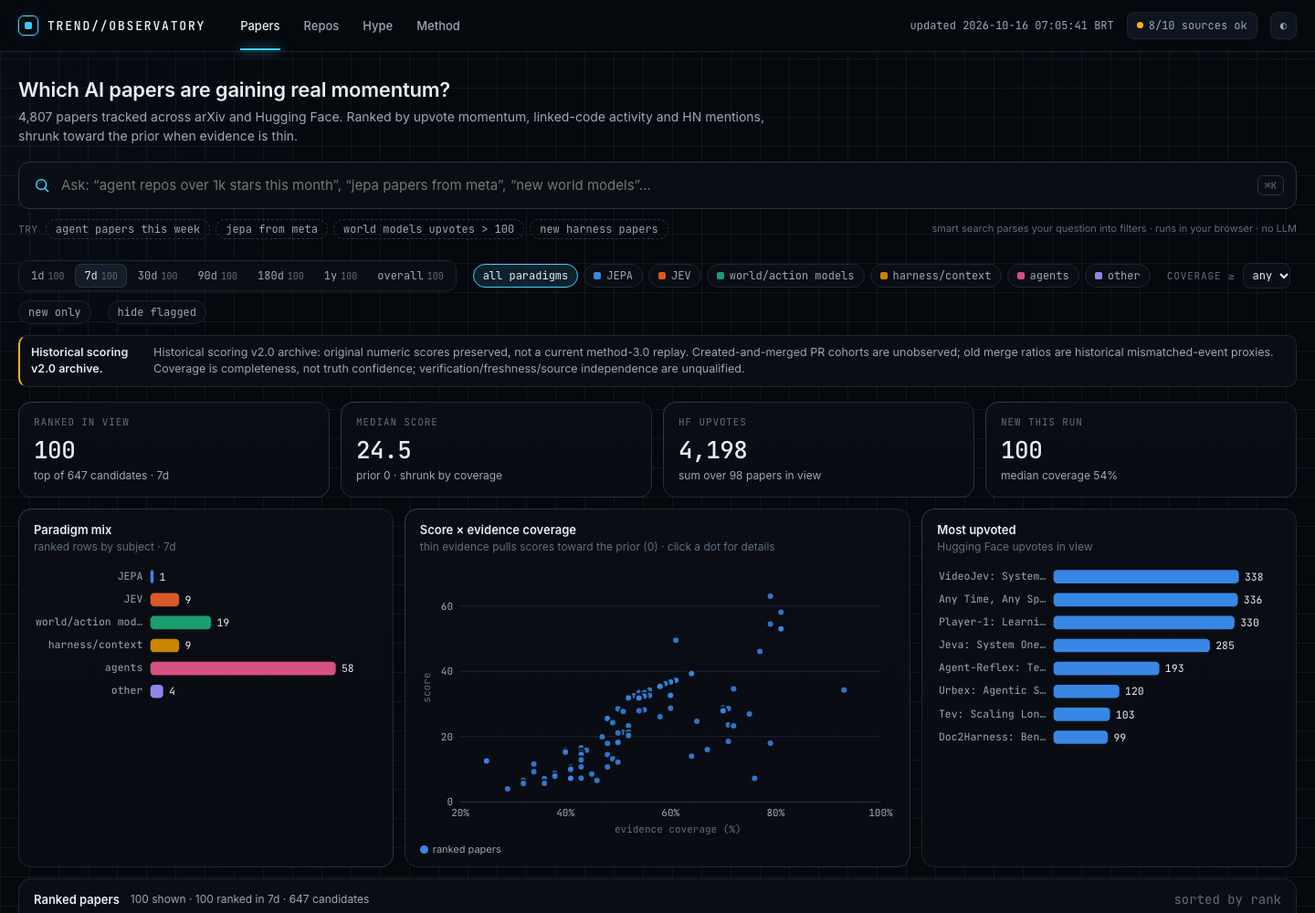
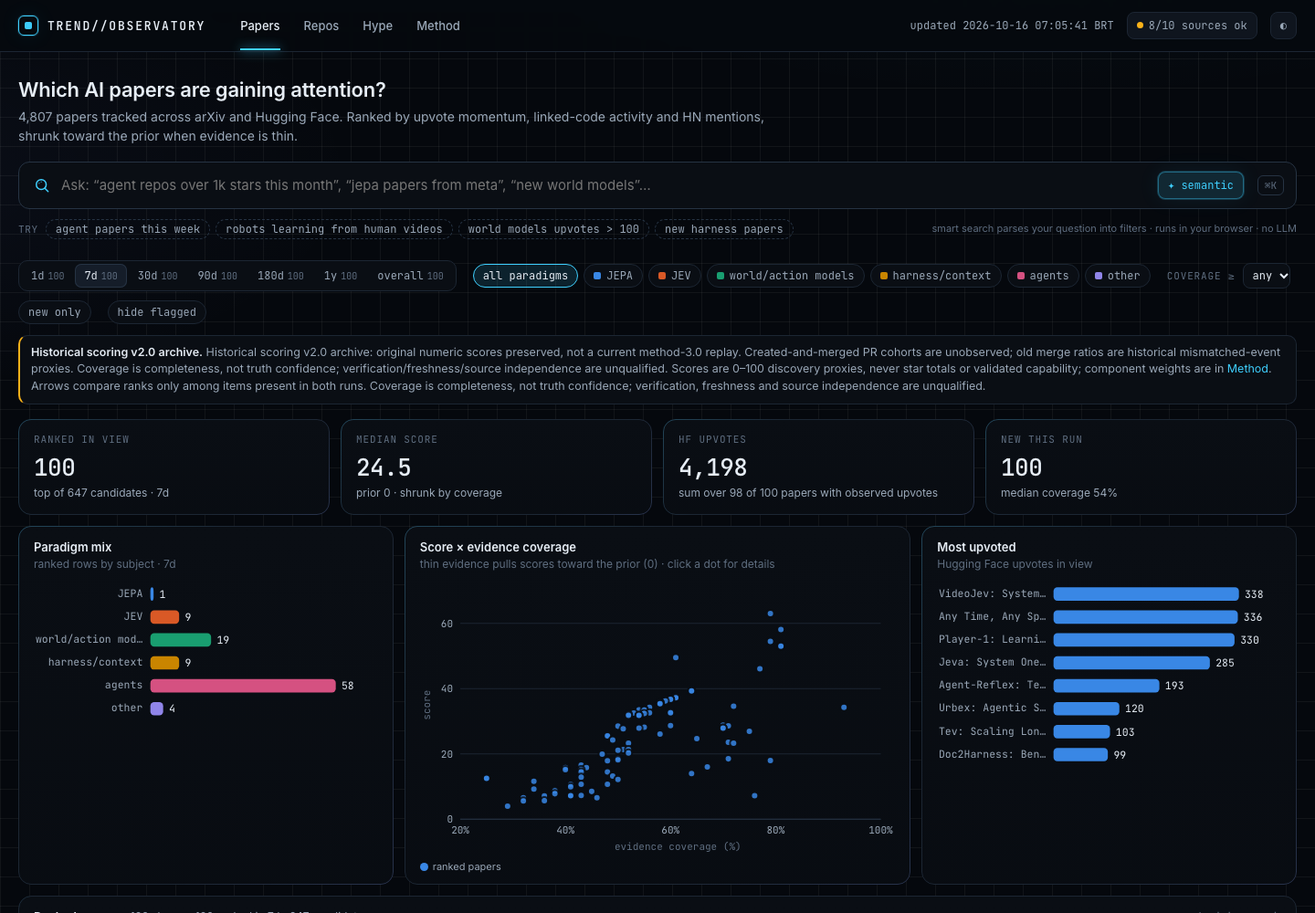
fix: address independent review findings
- drawer reads the effective (paradigm) view the table shows
- query-implied tab/window apply only when the query changes
- parser: numbers before tab words, coverage 50 -> 50%, attention routes to
  Hype, 'up' no longer means rising, sort only on existing columns
- HYPE: attention and discovery coverage columns, both-coverage filter,
  movement and gap notes, full unqualified-dimensions notice
- papers/repos notice restores the 0-100 proxy and arrow disclaimers
- star growth shows source and span per row; KPI no longer sums mixed spans
- upvote KPI shows '—' when nothing observed; malformed hash tolerated
- workflows: deploy hash, rebase before push, save state only on success
- docs: accurate check/carry-over claims, repo growth note

diff --git a/web/index.html b/web/index.html
@@ -211,7 +211,7 @@ footer .wrap{display:flex;gap:24px;flex-wrap:wrap;justify-content:space-between}
   <h1 id="h1"></h1><p id="lede"></p>
   <div class="ask">
    <svg class="ic" viewBox="0 0 24 24" fill="none" stroke="currentColor" stroke-width="1.8" stroke-linecap="round"><circle cx="11" cy="11" r="6.5"/><path d="M20 20l-4.2-4.2"/><path d="M11 7.5v.01M8.2 9.2l.01 0" opacity=".6"/></svg>
-   <input id="q" type="search" autocomplete="off" spellcheck="false" placeholder="Ask: “agent repos over 1k stars this month”, “jepa papers from meta”, “new world models”…" aria-label="Search">
+   <input id="q" type="search" autocomplete="off" spellcheck="false" placeholder="Ask: “agent repos over 1k stars this month”, “browser automation”, “robots learning from video”…" aria-label="Search">
    <button class="sem" id="sem" title="semantic search: ranks by meaning with a small embedding model that runs in your browser (downloads ~23 MB once)">✦ semantic</button>
    <kbd>⌘K</kbd>
   </div>
@@ -267,6 +267,8 @@ const tag=t=>t?`<span class=tag><i style="background:${tagc(t)}"></i>${esc(t)}</
 // ------------------------------------------------------------------ honesty vocabulary (ported unchanged)
 const KIND={'rate-proxy':'rate proxy: per-day-since-release average (no earlier snapshot), counts as half evidence','since-release':'rate since release (younger than the momentum horizon)','measured':'real delta from snapshots / stargazer timestamps','blended':'real snapshot delta blended with the since-release rate (our history is shorter than the window)'};
 const FLAG={'stars>activity':'star growth capped: not matched by issue/PR/commit activity','solo':'stars but ≤1 contributor (no outside contributors)','spike':'one-off spike: star rate not sustained across 7/30/90d','single-post':'HN attention is a single post','few-votes':'fewer than 10 upvotes: small sample, counts as part of a signal','single-platform':'all sampled attention on one platform','few-voices':'only a few unique authors in the sample'};
+const GSRC={'snapshots':'measured between two of our own snapshots','born-in-window':'repository created inside the window: all its stars count as gained since creation','stargazers':'from GitHub stargazer timestamps','stars/age':'rate proxy: total stars divided by age (no earlier observation)'};
+const GABBR={'born-in-window':'new','stargazers':'ts','stars/age':'~'};
 const UNQ='verification: unqualified · freshness: unknown · source independence: unqualified';
 function flags(f){return (f||[]).map(x=>`<span class=fl title="${esc(FLAG[x]||x)}">${esc(x)}</span>`).join('')}
 function mv(r){const m=r.mv;
@@ -287,30 +289,30 @@ function since(iso){if(!iso)return null;return Math.max(0,Math.floor((Date.now()
 const SYN={'jepa':'JEPA','jev':'JEV','world model':'world/action models','world models':'world/action models','world-model':'world/action models','action model':'world/action models','robot':'world/action models','robotics':'world/action models','vla':'world/action models',
  'harness':'harness/context','harnesses':'harness/context','context':'harness/context','memory':'harness/context','mcp':'harness/context','agent':'agents','agents':'agents','agentic':'agents'};
 const WINW={'today':'1d','24h':'1d','day':'1d','this week':'7d','week':'7d','weekly':'7d','this month':'30d','month':'30d','quarter':'90d','this year':'1y','year':'1y','all time':'overall','ever':'overall'};
-const FIELDS={star:'stars',stars:'stars',score:'score',coverage:'coverage',cov:'coverage',upvote:'upvotes',upvotes:'upvotes',votes:'upvotes',hf:'upvotes',gained:'gained',gain:'gained',contributors:'contributors',commits:'commits',mentions:'mentions',days:'days',age:'days',attention:'score',discovery:'discovery',gap:'gap'};
+const FIELDS={star:'stars',stars:'stars',score:'score',coverage:'coverage',cov:'coverage',upvote:'upvotes',upvotes:'upvotes',votes:'upvotes',hf:'upvotes',gained:'gained',gain:'gained',contributors:'contributors',commits:'commits',mentions:'mentions',days:'days',age:'days',attention:'attention',discovery:'discovery',gap:'gap'};
 const STOP=new Set('a an the of on in for with and or to me show find list papers paper repos repo github hype projects project about that are is top best new rising trending recent latest from by over under more less than at least most fewest sort what which'.split(' '));
-function nval(n,u){n=parseFloat(n);u=(u||'').toLowerCase();return u=='k'?n*1e3:u=='m'?n*1e6:u=='%'?n/100:n}
+function nval(n,u,f){n=parseFloat(n);u=(u||'').toLowerCase();n=u=='k'?n*1e3:u=='m'?n*1e6:u=='%'?n/100:n;if(f=='coverage'&&n>1)n/=100;return n}
 function parseQuery(raw,opt={}){
  const P={raw,label:null,tab:null,win:null,tag:null,nums:[],who:null,terms:[],isNew:false,rising:false,sort:null};
  let s=' '+raw.toLowerCase().replace(/[“”"]/g,' ')+' ';
  const take=(re,fn)=>{s=s.replace(re,(...m)=>{fn(...m);return ' '})};
  take(/\b(attention|hype)\s+(?:runs?\s+)?ahead\b/g,()=>{P.label='attention_ahead';P.tab='hype'});take(/\b(discovery|evidence)\s+ahead\b/g,()=>{P.label='evidence_ahead';P.tab='hype'});take(/\b(insufficient|low coverage)\b/g,()=>P.label='insufficient');
- take(/\b(papers?|arxiv)\b/g,()=>P.tab='papers');take(/\b(repos?|github|repositor(?:y|ies)|code)\b/g,()=>P.tab=P.tab||'repos');take(/\b(hype|attention|buzz)\b(?!\s*(?:>|<|=))/g,()=>P.tab='hype');
  take(/\b(1d|7d|30d|90d|180d|1y|overall)\b/g,(m,w)=>P.win=w);
  for(const k of Object.keys(WINW).sort((a,b)=>b.length-a.length))take(new RegExp('\\b(?:this |last |past )?'+k.replace(/ /g,'\\s+')+'\\b','g'),()=>P.win=WINW[k]);
  take(/\b(?:last|past)\s+(\d+)\s+days?\b/g,(m,n)=>{n=+n;P.win=n<=1?'1d':n<=7?'7d':n<=30?'30d':n<=90?'90d':n<=180?'180d':'1y'});
  const F='(stars?|score|coverage|cov|upvotes?|votes|hf|gained|gain|contributors|commits|mentions|days|age|attention|discovery|gap)';
  const OP={'>':'>','>=':'>=','<':'<','<=':'<=','=':'=',over:'>',above:'>','more than':'>','at least':'>=',under:'<',below:'<','less than':'<','fewer than':'<','at most':'<='};
- take(new RegExp('\\b'+F+'\\s*(>=|<=|>|<|=)\\s*(\\d+(?:\\.\\d+)?)\\s*(k|m|%)?','g'),(m,f,o,n,u)=>P.nums.push({f:FIELDS[f],op:o,v:nval(n,u)}));
- take(new RegExp('(>=|<=|>|<|over|above|more than|at least|under|below|less than|fewer than|at most)\\s*(\\d+(?:\\.\\d+)?)\\s*(k|m|%)?\\s*'+F+'\\b','g'),(m,o,n,u,f)=>P.nums.push({f:FIELDS[f],op:OP[o],v:nval(n,u)}));
+ take(new RegExp('\\b'+F+'\\s*(>=|<=|>|<|=)\\s*(\\d+(?:\\.\\d+)?)\\s*(k|m|%)?','g'),(m,f,o,n,u)=>P.nums.push({f:FIELDS[f],op:o,v:nval(n,u,FIELDS[f])}));
+ take(new RegExp('(>=|<=|>|<|over|above|more than|at least|under|below|less than|fewer than|at most)\\s*(\\d+(?:\\.\\d+)?)\\s*(k|m|%)?\\s*'+F+'\\b','g'),(m,o,n,u,f)=>P.nums.push({f:FIELDS[f],op:OP[o],v:nval(n,u,FIELDS[f])}));
+ take(/\b(papers?|arxiv)\b/g,()=>P.tab='papers');take(/\b(repos?|github|repositor(?:y|ies)|code)\b/g,()=>P.tab=P.tab||'repos');take(/\b(hype|attention|buzz)\b/g,()=>P.tab='hype');
  take(/\b(most|top)\s+(starred|stars|upvoted|gained|contributors|commits)\b/g,(m,a,b)=>P.sort={stars:'stars',starred:'stars',upvoted:'upvotes',gained:'gained',contributors:'contributors',commits:'commits'}[b]);
  take(/\b(?:from|by)\s+([a-z0-9][\w.\-@]*(?:\s+(?!with\b|in\b|over\b|under\b|and\b|this\b|last\b|more\b|less\b)[a-z0-9][\w.\-]*){0,2})/g,(m,w)=>{w=w.trim();
   // only a known lab/owner/author becomes a filter; otherwise the words stay as search text
   while(w&&!opt.noWho&&!knownWho(w))w=w.split(' ').slice(0,-1).join(' ');if(w&&!opt.noWho)P.who=w;else P._back=(P._back||'')+' '+m.replace(/^\s*(from|by)\s+/,'')+' '});
  take(/\b(new|newly|fresh|just appeared)\b/g,()=>P.isNew=true);
- take(/\b(rising|risers|climbing|movers|gainers|up)\b/g,()=>P.rising=true);
+ take(/\b(rising|risers|climbing|movers|gainers)\b/g,()=>P.rising=true);
  for(const k of Object.keys(SYN).sort((a,b)=>b.length-a.length))take(new RegExp('\\b'+k.replace(/[-/]/g,'\\$&').replace(/ /g,'\\s+')+'\\b','g'),()=>P.tag=P.tag||SYN[k]);
- if(P.nums.some(n=>['gap','discovery'].includes(n.f))&&!P.tab)P.tab='hype';
+ if(P.nums.some(n=>['gap','discovery','attention'].includes(n.f)))P.tab='hype';
  if(P._back)s+=P._back;
  P.terms=s.split(/[^a-z0-9.+#\-_/]+/).filter(w=>w&&w.length>1&&!STOP.has(w));
  return P}
@@ -325,7 +327,7 @@ function hay(r){const k=S.tab+'|'+r.id;let h=HAY.get(k);if(h)return h;
  const t=[r.id,r.title,r.name,r.desc,r.owner,r.lab,(r.authors||[]).join(' '),r.tag,r.category,r.summary,r.paper_title].filter(Boolean).join(' ').toLowerCase();
  h={t,w:t.split(/[^a-z0-9.+#\-_]+/).filter(x=>x.length>3)};HAY.set(k,h);return h}
 function termHit(r,term){const h=hay(r);if(h.t.includes(term))return 2;if(term.length>=5&&h.w.some(w=>lev1(w,term)||(w.length>term.length&&lev1(w.slice(0,term.length),term))))return 1;return 0}
-function getF(r,f){if(f=='discovery')return r._disc;return r[f]}
+function getF(r,f){if(f=='discovery')return r._disc;if(f=='attention')return r.score;return r[f]}
 function cmp(a,op,b){return a==null?false:op=='>'?a>b:op=='>='?a>=b:op=='<'?a<b:op=='<='?a<=b:a==b}
 
 // ------------------------------------------------------------------ semantic search: same model as scripts/embed/embed.mjs, query embedded locally
@@ -356,7 +358,7 @@ function rowsFor(tab,win,view){
  return {candidates:cur.candidates,rows:cur.rows.map(v=>({...D[tab].items[v.id],...v}))}}
 function applyFilters(rows,P){
  let out=rows;
- if(S.mincov)out=out.filter(r=>(r.coverage??0)>=S.mincov);
+ if(S.mincov)out=out.filter(r=>(r.coverage??0)>=S.mincov&&(S.tab!='hype'||(r._dcov??0)>=S.mincov));
  if(S.onlyNew||P.isNew)out=out.filter(isNew);
  if(S.noFlag)out=out.filter(r=>!(r.flags&&r.flags.length));
  for(const c of P.nums)out=out.filter(r=>cmp(getF(r,c.f),c.op,c.v));
@@ -386,16 +388,18 @@ const C={
   {k:'id',l:'Repository',v:r=>r.id,h:r=>`<div class=ttl>${r.fav?'<span class=fav>★</span> ':''}${esc(r.id)}</div><div class=desc>${esc(r.desc||'')}</div>${flags(r.flags)}`},
   {k:'score',l:'Score',n:1,v:r=>r.score,h:r=>sc(r.score,r,D.priors?.repos)},
   {k:'coverage',l:'Coverage',n:1,v:r=>r.coverage,h:r=>cov(r.coverage),hs:1},
-  {k:'gained',l:'★ gained',n:1,v:r=>r.gained,h:r=>r.gained==null?`<span class=dim title="${r.kind=='rate-proxy'?'no stargazer timestamps or earlier snapshot: score uses stars/age as a rate proxy':'no growth history yet'}">—</span>`:`<span title="${esc((r.src||'')+(r.gspan?` over ${r.gspan} days`:''))}">${r.gained>=0?'+':''}${num(r.gained)}</span>`},
+  {k:'gained',l:'★ gained',n:1,v:r=>r.gained,h:r=>r.gained==null?`<span class=dim title="${r.kind=='rate-proxy'?'no stargazer timestamps or earlier snapshot: score uses stars/age as a rate proxy':'no growth history yet'}">—</span>`:`<span title="${esc(GSRC[r.src]||r.src||'')}${r.gspan?` · over ${r.gspan} days`:''}">${r.gained>=0?'+':''}${num(r.gained)}</span>${r.src=='snapshots'&&r.gspan?` <span class=dim>/${r.gspan}d</span>`:r.src&&r.src!='snapshots'?` <span class=dim title="${esc(GSRC[r.src]||r.src)}">${esc(GABBR[r.src]||'')}</span>`:''}`},
   {k:'stars',l:'Stars',n:1,v:r=>r.stars,h:r=>num(r.stars),hs:1},
   {k:'contributors',l:'Contrib.',n:1,v:r=>r.contributors,h:r=>num(r.contributors),hs:1},
-  {k:'pushed',l:'Push',n:1,v:r=>r.pushed?-Date.parse(r.pushed):null,h:r=>ago(r.pushed),hs:1},
+  {k:'pushed',l:'Push',n:1,v:r=>r.pushed?Date.parse(r.pushed):null,h:r=>ago(r.pushed),hs:1},
   {k:'tag',l:'Paradigm',v:r=>r.tag,h:r=>tag(r.tag),hs:1}],
  hype:[
   {k:'rank',l:'#',n:1,v:r=>r.rank,h:r=>`<span class=rk>${mv(r)}<b>${r.rank}</b></span>`},
   {k:'name',l:'Project',v:r=>r.name,h:r=>{const it=H.items[r.id];return `<div class=ttl>${esc(it.name)}${it.coord.disclosed?'<span class=ad title="disclosed sponsored content — see details">sponsored</span>':''}</div><div class=desc>${esc(it.category||'')}</div>${flags(r.flags)}`}},
   {k:'score',l:'Attention',n:1,v:r=>r.score,h:r=>sc(r.score,r,50)},
+  {k:'coverage',l:'Att. cov.',n:1,v:r=>r.coverage,h:r=>cov(r.coverage),hs:1},
   {k:'_disc',l:'Discovery',n:1,v:r=>r._disc,h:r=>{const d=H.items[r.id].discovery;return sc(d.score,d,50)}},
+  {k:'_dcov',l:'Disc. cov.',n:1,v:r=>r._dcov,h:r=>cov(r._dcov),hs:1},
   {k:'gap',l:'Gap',n:1,v:r=>r.gap,h:r=>gapb(r)},
   {k:'mentions',l:'Sampled posts',n:1,v:r=>r.mentions,h:r=>`<span title="sampled posts in window (not a global count)">${nv(r.mentions)}</span>`,hs:1},
   {k:'voices',l:'Voices',n:1,v:r=>r.voices,h:r=>nv(r.voices),hs:1},
@@ -445,7 +449,7 @@ function domainOf(vals,lo=0,hi=100,padv=4){vals=vals.filter(v=>v!=null);if(!vals
 // ------------------------------------------------------------------ render
 const TABS=[['papers','Papers'],['repos','Repos'],['hype','Hype'],['methodology','Method']];
 function writeHash(){const h=S.tab=='methodology'?'#methodology'+(S.msec?'/'+S.msec:''):'#'+S.tab+'/'+S.win+'/'+encodeURIComponent(S.view);const u=new URL(location.href);u.hash=h;if(S.q)u.searchParams.set('q',S.q);else u.searchParams.delete('q');if(S.sel)u.searchParams.set('open',S.sel);else u.searchParams.delete('open');history.replaceState(null,'',u)}
-function readHash(){const h=decodeURIComponent(location.hash.slice(1)).split('/');
+function readHash(){let h;try{h=decodeURIComponent(location.hash.slice(1)).split('/')}catch(e){h=[]}
  if(h[0]=='methodology'){S.tab='methodology';S.msec=h[1]||'';return}
  if(['papers','repos','hype'].includes(h[0]))S.tab=h[0];if(h[1])S.win=h[1];if(h[2])S.view=h.slice(2).join('/')}
 function setTab(t){if(S.tab==t)return;S.tab=t;S.sort=null;S.msec='';closeDetail();render();window.scrollTo({top:0})}
@@ -456,17 +460,18 @@ function render(){
  for(const id of ['hero','controls','note','kpis','charts','tablecard'])$(id).style.display=isM?'none':'';
  $('md').style.display=isM?'grid':'none';
  if(isM){writeHash();renderSources();$('upd').textContent='updated '+(D.generated_local||'').replace(/\s*\(.*\)/,'');return renderMethod()}
- if(S.tab=='hype'&&!H){$('tb').innerHTML='<tr><td class=empty>Loading HYPE data…</td></tr>';loadHype().then(render);return}
+ if(S.tab=='hype'&&!H){$('tb').innerHTML='<tr><td class=empty>Loading HYPE data…</td></tr>';loadHype().then(render,()=>{});return}
  let P=parseQuery(S.q);
- if(P.tab&&P.tab!=S.tab){S.tab=P.tab;S.sort=null;return render()}
+ const fresh=S.q!==S.qApplied;S.qApplied=S.q;
+ if(fresh&&P.tab&&P.tab!=S.tab){S.tab=P.tab;S.sort=null;return render()}
  const meta=S.tab=='hype'?H:D;
  const wins=S.tab=='hype'?WN.filter(w=>H.windows[w]):D.windows;
- if(P.win&&wins.includes(P.win)&&(S.tab!='hype'||H.windows[P.win].enabled))S.win=P.win;
+ if(fresh&&P.win&&wins.includes(P.win)&&(S.tab!='hype'||H.windows[P.win].enabled))S.win=P.win;
  if(!wins.includes(S.win)||(S.tab=='hype'&&!H.windows[S.win].enabled))S.win=S.tab=='hype'?'overall':'7d';
  if(!meta.views.includes(S.view))S.view='all';
  writeHash();
  // header copy
- const H1={papers:'Which AI papers are gaining real momentum?',repos:'Which AI repositories show activity, not just stars?',hype:'Where does attention run ahead of evidence?'};
+ const H1={papers:'Which AI papers are gaining attention?',repos:'Which AI repositories show activity, not just stars?',hype:'Where does attention run ahead of evidence?'};
  const LEDE={papers:`${num(D.tracked.papers)} papers tracked across arXiv and Hugging Face. Ranked by upvote momentum, linked-code activity and HN mentions, shrunk toward the prior when evidence is thin.`,
   repos:`${num(D.tracked.repos)} repositories tracked. The activity discovery index rewards star growth only when issues, PRs, commits and contributors move with it.`,
   hype:`${H?.n_projects} researched projects. Sampled attention is compared with available discovery proxies; the gap is a lead to investigate, not a verdict.`};
@@ -480,15 +485,17 @@ function render(){
  $('views').querySelectorAll('button').forEach(b=>b.onclick=()=>{S.view=b.dataset.v;render()});
  $('onlynew').classList.toggle('on',S.onlyNew);$('noflag').classList.toggle('on',S.noFlag);$('mincov').value=String(S.mincov);
  // notice
- $('note').innerHTML=S.tab=='hype'?'<b>Read as leads, not verdicts.</b> Sampled attention and discovery proxies are not capability, adoption or economic validation. Usage operations, users and customers stay separate. Coverage is completeness, not truth confidence.'
-  :D.archive_note?`<b>Historical scoring v${esc(D.scoring_version)} archive.</b> ${esc(D.archive_note)}`:`<b>Scoring v${esc(D.scoring_version)} · ${esc(D.movement_note||(D.previous_run?'movement vs run of '+D.previous_run.replace('T',' '):'first run in this history: every entry is new and growth needs a second snapshot'))}.</b> Coverage is completeness, not truth confidence; verification, freshness and source independence are unqualified.`;
+ const COMMON='Scores are 0–100 discovery proxies, never star totals or validated capability; component weights are in <a href="#methodology">Method</a>. Arrows compare ranks only among items present in both runs. Coverage is completeness, not truth confidence; verification, freshness and source independence are unqualified.';
+ $('note').innerHTML=S.tab=='hype'?`<div><b>Read as leads, not verdicts.</b> Sampled attention and discovery proxies are not capability, adoption or economic validation. Usage operations, users and customers stay separate. Gap labels appear only when both coverages reach ${Math.round(100*H.gap_min_coverage)}%. Coverage is completeness, not truth confidence; verification, freshness and independence are unqualified.${H.movement_note?` <b>${esc(H.movement_note)}</b>`:''}${H.gap_note?`<div class=dim style="margin-top:4px">Research gap note: ${esc(H.gap_note)}</div>`:''}</div>`
+  :D.archive_note?`<div><b>Historical scoring v${esc(D.scoring_version)} archive.</b> ${esc(D.archive_note)} ${COMMON}</div>`:`<div><b>Scoring v${esc(D.scoring_version)} · ${esc(D.movement_note||(D.previous_run?'movement vs run of '+D.previous_run.replace('T',' '):'first run in this history: every entry is new and growth needs a second snapshot'))}.</b> ${COMMON}</div>`;
  // rows
- const vw=P.tag&&S.view=='all'&&meta.views.includes(P.tag)?P.tag:S.view;
+ const vw=P.tag&&S.view=='all'&&meta.views.includes(P.tag)?P.tag:S.view;S.vw=vw;
  const base=rowsFor(S.tab,S.win,vw);
  let rows=applyFilters(base.rows,P);
  // ambiguous "from X": if the lab/author reading finds nothing, read the words as text instead
  if(!rows.length&&P.who){const P2=parseQuery(S.q,{noWho:true});const r2=applyFilters(base.rows,P2);if(r2.length){P=P2;rows=r2}}
- const sortKey=S.sort?.k||(P.sort)||(P.terms.length?'_rel':P.rising?'_mv':null);
+ const pSort=P.sort&&C[S.tab].some(c=>c.k==P.sort)?P.sort:null;if(P.sort&&!pSort)P.sort=null;
+ const sortKey=S.sort?.k||pSort||(P.terms.length?'_rel':P.rising?'_mv':null);
  if(sortKey){const col=C[S.tab].find(c=>c.k==sortKey);const val=sortKey=='_rel'?r=>r._rel:sortKey=='_mv'?r=>isNew(r)?-1:mvDelta(r):col?col.v:r=>r[sortKey];
   const dir=S.sort?.d??(sortKey=='rank'||sortKey=='days'?1:-1);
   rows=rows.slice().sort((a,b)=>{const x=val(a),y=val(b);if(x==null&&y==null)return a.rank-b.rank;if(x==null)return 1;if(y==null)return -1;return (typeof x=='string'?x.localeCompare(y):x-y)*dir||a.rank-b.rank})}
@@ -508,8 +515,8 @@ function renderParsed(P,n,tot,other){
  for(const x of P.nums)c.push([x.f,x.op+' '+(x.f=='coverage'?Math.round(x.v*100)+'%':x.v.toLocaleString('en-US'))]);
  if(P.who)c.push(['from',P.who]);if(P.label)c.push(['gap',P.label.replace('_',' ')]);if(P.isNew)c.push(['only','new entries']);if(P.rising)c.push(['only','rising']);if(P.sort)c.push(['sort','most '+P.sort]);
  if(P.terms.length)c.push([P.semantic?'meaning':'text',semText(P)]);
- if(!S.q){const ex={papers:['agent papers this week','jepa from meta','world models upvotes > 100','new harness papers'],repos:['agent repos over 1k stars this month','most gained world models','rising harness 30d','browser'],hype:['attention ahead','gap > 20','coding agents','overall discovery > 60']}[S.tab];
-  $('parsed').innerHTML=`<span class=lbl>try</span><span class=examples>${ex.map(e=>`<button data-ex="${esc(e)}">${esc(e)}</button>`).join(' ')}</span><span class="dim hint" style="margin-left:auto;font-size:11px">smart search parses your question into filters · runs in your browser · no LLM</span>`;
+ if(!S.q){const ex={papers:['agent papers this week','robots learning from human videos','world models upvotes > 100','new harness papers'],repos:['agent repos over 1k stars this month','most gained world models','rising harness 30d','browser'],hype:['attention ahead','gap > 20','image generation','discovery > 60 overall']}[S.tab];
+  $('parsed').innerHTML=`<span class=lbl>try</span><span class=examples>${ex.map(e=>`<button data-ex="${esc(e)}">${esc(e)}</button>`).join(' ')}</span><span class="dim hint" style="margin-left:auto;font-size:11px">filters are parsed from your words; the rest is ranked by meaning · all in your browser, no server, no paid API</span>`;
   $('parsed').querySelectorAll('[data-ex]').forEach(b=>b.onclick=()=>{$('q').value=b.dataset.ex;S.q=b.dataset.ex;render()});return}
  $('parsed').innerHTML=`<span class=lbl>understood</span>${c.map(([k,v])=>`<span class="pchip${k=='text'?' t':''}">${esc(k)}: ${esc(v)}</span>`).join('')||'<span class=dim>nothing to filter on</span>'}<span class=dim style="margin-left:6px">→ ${n} of ${tot} rows${P.semantic?' · ranked by meaning':S.sem&&P.terms.length&&SEM.state=='loading'?' · loading semantic model…':''}</span>${other&&other.length?`<span class=lbl style="margin-left:10px">found in</span>${other.map(([t,w,k])=>`<button class=chip data-go="${t}|${w}">${k} in ${t} · ${w} →</button>`).join('')}`:''}`;
  $('parsed').querySelectorAll('[data-go]').forEach(b=>b.onclick=()=>{const [t,w]=b.dataset.go.split('|');S.tab=t;S.win=w;S.sort=null;render()})}
@@ -518,9 +525,9 @@ function renderKpis(base,rows){
  const R=base.rows,nNew=R.filter(isNew).length,mc=median(R.map(r=>r.coverage)),ms=median(R.map(r=>r.score));
  let h;
  if(S.tab=='hype'){const lab=k=>R.filter(r=>r.label==k).length;
-  h=kpi('Projects in window',num(R.length),`of ${H.n_projects} researched · ${S.win}`)+kpi('Attention ahead',num(lab('attention_ahead')),'attention percentile leads discovery')+kpi('Discovery ahead',num(lab('evidence_ahead')),'discovery percentile leads attention')+kpi('Insufficient',num(lab('insufficient')+R.filter(r=>r.gap==null).length),`coverage < ${Math.round(100*H.gap_min_coverage)}% or no proxy · not low value`)}
- else{const third=S.tab=='repos'?(()=>{const g=R.filter(r=>r.gained!=null);return kpi('Stars gained',g.length?'+'+num(g.reduce((a,r)=>a+r.gained,0)):'—',`sum over ${g.length} of ${R.length} with observed growth`)})()
-   :(()=>{const u=R.filter(r=>r.upvotes!=null);return kpi('HF upvotes',num(u.reduce((a,r)=>a+r.upvotes,0)),`sum over ${u.length} papers in view`)})();
+  h=kpi('Projects in window',num(R.length),`of ${H.n_projects} researched · ${S.win}`)+kpi('Attention ahead',num(lab('attention_ahead')),'attention percentile leads discovery')+kpi('Discovery ahead',num(lab('evidence_ahead')),'discovery percentile leads attention')+kpi('Insufficient',num(R.filter(r=>r.label=='insufficient'||r.gap==null).length),`coverage < ${Math.round(100*H.gap_min_coverage)}% or no proxy · not low value`)}
+ else{const third=S.tab=='repos'?(()=>{const g=R.filter(r=>r.gained!=null),sn=g.filter(r=>r.src=='snapshots'),sp=median(sn.map(r=>r.gspan));return kpi('Observed star growth',g.length?num(g.length)+' repos':'—',g.length?`${sn.length} from our snapshots${sp!=null?' (median span '+sp.toFixed(1)+'d)':''} · ${g.length-sn.length} other sources · spans differ, not summed`:'no growth history yet')})()
+   :(()=>{const u=R.filter(r=>r.upvotes!=null);return kpi('HF upvotes',u.length?num(u.reduce((a,r)=>a+r.upvotes,0)):'—',u.length?`sum over ${u.length} of ${R.length} papers with observed upvotes`:'no upvotes observed in view')})();
   h=kpi('Ranked in view',num(R.length),`top of ${num(base.candidates)} candidates · ${S.win}`)+kpi('Median score',ms==null?'—':ms.toFixed(1),`prior ${D.priors?.[S.tab]??'—'} · shrunk by coverage`)+third+kpi('New this run',num(nNew),`median coverage ${mc==null?'—':pct(mc)+'%'}`)}
  $('kpis').innerHTML=h}
 function renderCharts(all,shown){
@@ -546,7 +553,7 @@ function renderCharts(all,shown){
  // 3. leaders
  let lead,title,sub,fmt=v=>v.toLocaleString('en-US');
  const src=shown.length?shown:all;
- if(S.tab=='repos'){lead=src.filter(r=>r.gained!=null&&r.gained>0).sort((a,b)=>b.gained-a.gained).slice(0,8).map(r=>({id:r.id,label:r.id.split('/')[1]||r.id,v:r.gained,c:'var(--series-1)',tip:`<b>${esc(r.id)}</b><div class=m>+${num(r.gained)} stars${r.gspan?` over ${r.gspan}d`:''} · ${esc(r.src||'')}</div>`}));title='Star growth leaders';sub='observed gains from our own snapshots';fmt=v=>'+'+v.toLocaleString('en-US')}
+ if(S.tab=='repos'){lead=src.filter(r=>r.gained!=null&&r.gained>0).sort((a,b)=>b.gained-a.gained).slice(0,8).map(r=>({id:r.id,label:r.id.split('/')[1]||r.id,v:r.gained,c:'var(--series-1)',tip:`<b>${esc(r.id)}</b><div class=m>+${num(r.gained)} stars${r.gspan?` over ${r.gspan}d`:''}</div><div class=m>${esc(GSRC[r.src]||r.src||'')}</div>`}));title='Star growth leaders';sub='stars gained in window · span and source per bar (hover)';fmt=v=>'+'+v.toLocaleString('en-US')}
  else if(S.tab=='papers'){lead=src.filter(r=>r.upvotes).sort((a,b)=>b.upvotes-a.upvotes).slice(0,8).map(r=>({id:r.id,label:r.title,v:r.upvotes,c:'var(--series-1)',tip:`<b>${esc(r.title)}</b><div class=m>${num(r.upvotes)} HF upvotes · ${esc(r.id)}</div>`}));title='Most upvoted';sub='Hugging Face upvotes in view'}
  else{lead=src.filter(r=>r.mentions).sort((a,b)=>b.mentions-a.mentions).slice(0,8).map(r=>({id:r.id,label:r.name,v:r.mentions,c:'var(--series-1)',tip:`<b>${esc(r.name)}</b><div class=m>${num(r.mentions)} sampled posts · ${nv(r.voices)} voices</div>`}));title='Most sampled posts';sub='sampled, not platform-wide totals'}
  const b3=lead.length?barsH(lead,{fmt}):{svg:'<div class=empty>no observed values</div>',map:{}};maps.push(b3.map);
@@ -566,7 +573,7 @@ function renderTable(rows,base,sortKey){
 // ------------------------------------------------------------------ detail drawer
 function closeDetail(){S.sel=null;if(D)writeHash();$('drawer').classList.remove('on');$('scrim').classList.remove('on');document.querySelectorAll('tr.sel').forEach(t=>t.classList.remove('sel'))}
 function openDetail(id,quiet){
- const r=rowsFor(S.tab,S.win,S.view).rows.find(x=>x.id==id)||(S.tab!='hype'&&D[S.tab].items[id]?{...D[S.tab].items[id],id}:null);
+ const r=rowsFor(S.tab,S.win,S.vw||S.view).rows.find(x=>x.id==id)||rowsFor(S.tab,S.win,S.view).rows.find(x=>x.id==id)||(S.tab!='hype'&&D[S.tab].items[id]?{...D[S.tab].items[id],id}:null);
  if(!r){closeDetail();return}
  S.sel=id;document.querySelectorAll('#tb tr').forEach(t=>t.classList.toggle('sel',t.dataset.id==id));
  let head,body;
@@ -609,6 +616,7 @@ function hypeCard(r,it){const v=it.viral,c=it.coord,ri=it.evidence_in,d=it.disco
  const usage=d.metrics.map(s=>`<li><b>${esc(s.metric_family||'unknown family')}</b>: ${nv(s.value)} ${esc(s.unit||'unit unknown')} · ${esc(s.type)} ${A(s.url,'source')}<div class=dim>Period ${esc(s.period?.start||'—')} → ${esc(s.period?.end||'—')}; scope ${esc(s.scope||'—')}; compatible-cohort unit ${nv(s.normalized)}${s.cohort?'':' (unqualified cohort)'}${s.vendor?' · vendor claim':''}</div></li>`).join('')||'<li class=dim>— unobserved; not zero users or customers</li>';
  return `<div class=sec>${esc(it.category||'')}</div><p>${links||''}</p>
  <div class=kv><div><span>attention</span><b>${r.score??'—'}</b></div><div><span>discovery</span><b>${d.score??'—'}</b></div><div><span>gap</span><b>${r.gap==null?'—':(r.gap>0?'+':'')+r.gap}</b></div>
+ <div><span>attention cov.</span><b>${r.coverage==null?'—':pct(r.coverage)+'%'}</b></div><div><span>discovery cov.</span><b>${d.coverage==null?'—':pct(d.coverage)+'%'}</b></div><div><span>gap label</span><b style="font-size:12px">${esc((r.label||'—').replace('_',' '))}</b></div>
  <div><span>sampled posts</span><b>${nv(m.mentions)}</b></div><div><span>voices</span><b>${nv(m.voices)}</b></div><div><span>platforms</span><b>${m.platforms?m.platforms.length:'—'}</b></div></div>
  <h4>Summary</h4>${esc(it.summary||'—')} <span class=dim>${srcs(it.summary_urls)}</span>
  <h4>Timeline</h4><ul><li><b>First seen</b>: ${it.first_seen?esc(day(it.first_seen))+' '+A(it.first_seen_url,'source'):'—'} <span class=dim>(${esc(it.first_seen_meaning||'')})</span></li>
@@ -685,7 +693,7 @@ const TH_KEY='trend-theme';
 function setTheme(t){document.documentElement.dataset.theme=t;try{localStorage.setItem(TH_KEY,t)}catch(e){}}
 try{const t=localStorage.getItem(TH_KEY);if(t)document.documentElement.dataset.theme=t}catch(e){}
 $('theme').onclick=()=>setTheme(document.documentElement.dataset.theme=='light'?'dark':'light');
-addEventListener('hashchange',()=>{const b=S.tab+'|'+S.msec+'|'+S.win+'|'+S.view;readHash();if(S.tab+'|'+S.msec+'|'+S.win+'|'+S.view!=b)render()});
+addEventListener('hashchange',()=>{const t0=S.tab,b=S.tab+'|'+S.msec+'|'+S.win+'|'+S.view;readHash();if(S.tab!=t0)closeDetail();if(S.tab+'|'+S.msec+'|'+S.win+'|'+S.view!=b)render()});
 async function loadHype(){try{const r=await fetch('hype.json?'+Date.now());if(!r.ok)throw new Error('HTTP '+r.status);H=await r.json()}catch(e){H=null;$('tb').innerHTML=`<tr><td class=empty>No HYPE data (hype.json): ${esc(e.message)}</td></tr>`;throw e}}
 async function load(){const r=await fetch('data.json?'+Date.now());D=await r.json();HAY.clear();buildWho();render()}
 readHash();{const u=new URLSearchParams(location.search);if(u.get('q')){S.q=u.get('q');$('q').value=S.q}if(u.get('open'))S.sel=u.get('open').split(',')[0]}

diff --git a/docs/ARCHITECTURE.md b/docs/ARCHITECTURE.md
@@ -63,8 +63,8 @@ What each piece guarantees:
 |---|---|---|
 | `run.py` | every value comes from a named public source; failure is recorded per source, never filled in | `note()` → `data.json.sources`, shown in the header's source-health popover |
 | `scoring.py` | unknown stays `null`; coverage is completeness, not confidence; thin evidence shrinks toward the prior | unit tests, `eval.py`, METHODOLOGY.md |
-| `check_page.mjs` | the page script parses, every field it reads exists in the data, the search vectors match the index (stale index = warning) | `ci.yml`, `refresh.yml`, `deploy.yml` |
-| `index.html` | `—` for unknown, gap labels only when both coverages ≥ 50%, sampled counts called samples | ported verbatim from the previous page |
+| `check_page.mjs` | the page script parses; the top-level data fields and per-row item references it relies on exist; the search vectors match the index (stale index = warning) | `ci.yml`, `refresh.yml`, `deploy.yml` |
+| `index.html` | `—` for unknown, gap labels only when both coverages ≥ 50%, sampled counts called samples, star-growth source and span shown per row | carried over from the previous page and checked by an independent review |
 
 ## 2. How it updates itself
 
@@ -74,9 +74,11 @@ What each piece guarantees:
  any PR ─► ci.yml (tests, fixture eval, scoring smoke, page check)   — never deploys, never fetches
 ```
 
-Momentum needs earlier snapshots. They live in `history/trending.db`, which is kept between runs in the Actions cache. The first automated run starts a new history: every entry shows as new and star growth shows `—` until the second daily snapshot exists; 7-day momentum becomes measured after a week. If the cache is ever evicted (7 days without a run), the same reset happens and the page says so. Nothing is back-filled or invented.
+Momentum needs earlier snapshots. They live in `history/trending.db`, which is kept between runs in the Actions cache. The first automated run starts a new history: every entry shows as new, and snapshot-based star growth needs a second daily run (repositories created inside the window and GitHub stargazer timestamps can still give values on day one); 7-day momentum becomes snapshot-measured after a week. If the cache is ever evicted (7 days without a run), the same reset happens and the page says so. Nothing is back-filled or invented.
 
 GitHub limits: with only the job token the GitHub API allows about 1,000 requests per hour, so some activity lookups may be partial (recorded as `partial` in sources). Adding a read-only fine-grained token as the `TRENDING_GH_TOKEN` secret raises that to 5,000.
+
+**Repository size.** Each refresh commits a ~4 MB `data.json` (plus a 0.7 MB vector file). Git stores them compressed, but history still grows by roughly 0.5–1 MB a day. ROADMAP step P4 moves daily snapshots to object storage (R2) and keeps only weekly snapshots in git.
 
 **Retire the old refresher.** Until 2026-10-16 the daily data commits came from a job outside this repository that pushes to `main`. The default branch is now `dev`, and git does not redirect pushes to a renamed branch, so that job would create a new `main` that nothing deploys. Disable it; `refresh.yml` replaces it.
 

diff --git a/README.md b/README.md
@@ -30,11 +30,11 @@ python -m http.server 8765 -d web   # open http://localhost:8765 to browse the c
 
 An optional network refresh is `python run.py`; it calls external source APIs and is separate from browsing or fixture evaluation. Install [requirements.txt](requirements.txt) first if needed (`tzdata` on Windows); `gh auth login` or a `GH_TOKEN` variable raises GitHub API limits.
 
-**Hosting and updates.** `.github/workflows/refresh.yml` runs `run.py` daily in GitHub Actions, commits `web/data.json` to `dev` and deploys `web/` to Cloudflare Pages through `deploy.yml`; `ci.yml` gates every pull request. Deploys need two repository secrets; setup steps are in [ARCHITECTURE.md](docs/ARCHITECTURE.md#3-publishing).
+**Hosting and updates.** `.github/workflows/refresh.yml` runs `run.py` daily in GitHub Actions, commits `web/data.json` to `dev` and deploys `web/` to Cloudflare Pages through `deploy.yml`; `ci.yml` runs on every pull request (mark it as a required check under branch protection to block merges). Deploys need two repository secrets; setup steps are in [ARCHITECTURE.md](docs/ARCHITECTURE.md#3-publishing).
 
 ## The page
 
-Search box: type a question such as `agent repos over 1k stars this month`, `jepa papers from meta` or `attention ahead`. It is parsed into filters in the browser (tab, window, paradigm, numeric thresholds, author/lab, new, rising), and the remaining words are ranked by meaning with a small open embedding model that runs in the browser (vectors are built at refresh time by `scripts/embed`). No server or paid API is involved; toggle `✦ semantic` off for plain keyword matching. Click any row or chart point for its score anatomy and sources.
+Search box: type a question such as `agent repos over 1k stars this month`, `browser automation` or `attention ahead`. It is parsed into filters in the browser (tab, window, paradigm, numeric thresholds, author/lab, new, rising), and the remaining words are ranked by meaning with a small open embedding model that runs in the browser (vectors are built at refresh time by `scripts/embed`). No server or paid API is involved; toggle `✦ semantic` off for plain keyword matching. Click any row or chart point for its score anatomy and sources.
 
 | Tab | What it ranks | Score |
 |---|---|---|

diff --git a/docs/ROADMAP.md b/docs/ROADMAP.md
@@ -20,7 +20,7 @@ Owner of sequencing since 2026-10-16: the delivery agent, by delegation from the
 | P1 | Console UI: charts, filters, smart + semantic search, detail drawer | layer 0 | this change |
 | P2 | Hosting + daily self-update + CI gate | P1 | this change; needs Cloudflare secrets |
 | P3 | Richer search corpus: embed abstracts (the pipeline stores titles only today) and README excerpts; optional LLM answer card over the top results via Workers AI with a hard daily cap | P2 | planned |
-| P4 | Durable history: copy `history/` to R2 after each run so momentum survives cache eviction; weekly snapshot artifact | P2 | planned |
+| P4 | Durable history: copy `history/` to R2 after each run so momentum survives cache eviction; publish daily `data.json` to R2 and commit only weekly snapshots to git to cap repository growth | P2 | planned |
 | P5 | Trend-over-time charts per item (needs ≥ 14 daily snapshots from P2/P4) | P4 | planned |
 | P6 | Link the frontier-economics investigation explorer (`web/prototypes/`, #8's chosen direction) from the console | #6, #8 | planned |
 | P7 | Continue #7 → #9 → #12 (read model, relationship lens/inspector, first published investigation) | owner prerequisites | blocked |
